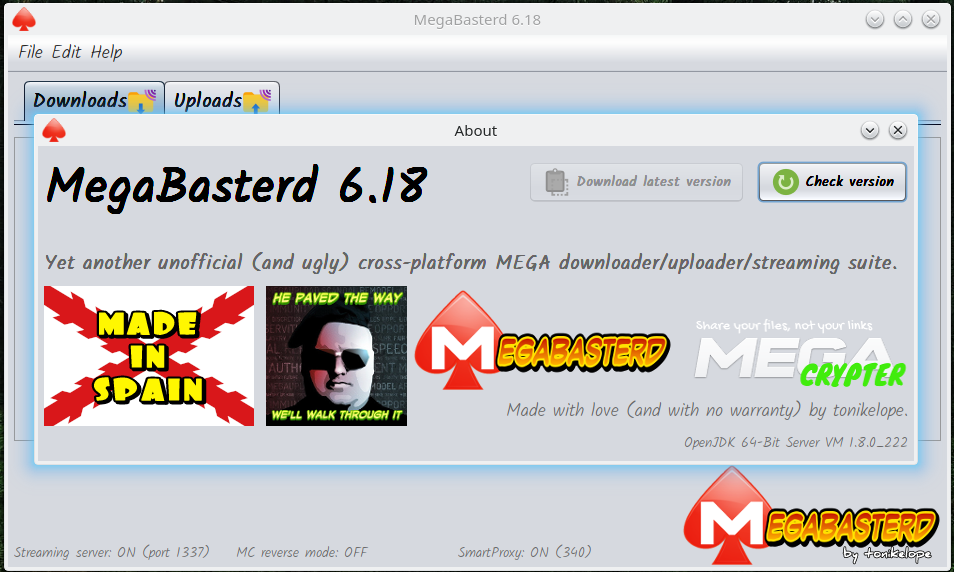
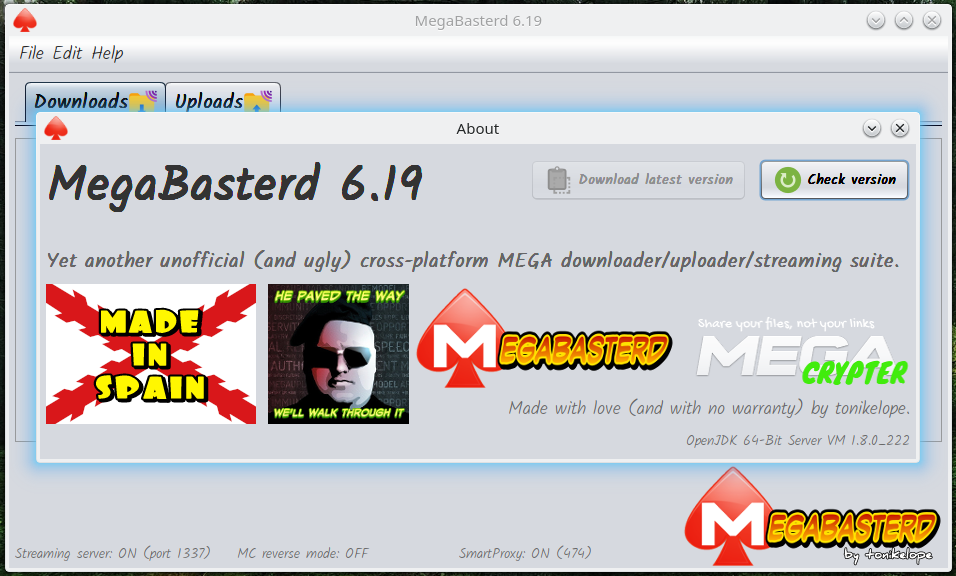
6.19
-GUI optimizations

diff --git a/src/main/java/com/tonikelope/megabasterd/DownloadManager.java b/src/main/java/com/tonikelope/megabasterd/DownloadManager.java
@@ -28,11 +28,13 @@ public final class DownloadManager extends TransferenceManager {
 
         for (final Transference d : downloads) {
 
-            swingInvoke(
+            swingInvokeAndWait(
                     new Runnable() {
                 @Override
                 public void run() {
                     getScroll_panel().remove(((Download) d).getView());
+                    ((Download) d).getView().revalidate();
+                    ((Download) d).getView().repaint();
                 }
             });
 
@@ -61,11 +63,13 @@ public final class DownloadManager extends TransferenceManager {
 
     @Override
     public void provision(final Transference download) {
-        swingInvoke(
+        swingInvokeAndWait(
                 new Runnable() {
             @Override
             public void run() {
                 getScroll_panel().add(((Download) download).getView());
+                ((Download) download).getView().revalidate();
+                ((Download) download).getView().repaint();
             }
         });
 
@@ -125,12 +129,16 @@ public final class DownloadManager extends TransferenceManager {
 
                                 getScroll_panel().remove((Component) down.getView());
                                 getScroll_panel().add((Component) down.getView());
+                                ((Download) down).getView().revalidate();
+                                ((Download) down).getView().repaint();
                             }
 
                             for (final Transference down : getTransference_finished_queue()) {
 
                                 getScroll_panel().remove((Component) down.getView());
                                 getScroll_panel().add((Component) down.getView());
+                                ((Download) down).getView().revalidate();
+                                ((Download) down).getView().repaint();
                             }
 
                         }

diff --git a/src/main/java/com/tonikelope/megabasterd/UploadManager.java b/src/main/java/com/tonikelope/megabasterd/UploadManager.java
@@ -41,6 +41,8 @@ public final class UploadManager extends TransferenceManager {
             @Override
             public void run() {
                 getScroll_panel().add(((Upload) upload).getView());
+                ((Upload) upload).getView().revalidate();
+                ((Upload) upload).getView().repaint();
             }
         });
 
@@ -67,12 +69,16 @@ public final class UploadManager extends TransferenceManager {
 
                                 getScroll_panel().remove((Component) up.getView());
                                 getScroll_panel().add((Component) up.getView());
+                                ((Upload) up).getView().revalidate();
+                                ((Upload) up).getView().repaint();
                             }
 
                             for (Transference up : getTransference_finished_queue()) {
 
                                 getScroll_panel().remove((Component) up.getView());
                                 getScroll_panel().add((Component) up.getView());
+                                ((Upload) up).getView().revalidate();
+                                ((Upload) up).getView().repaint();
                             }
                         }
                     });
@@ -101,6 +107,8 @@ public final class UploadManager extends TransferenceManager {
                 @Override
                 public void run() {
                     getScroll_panel().remove(((Upload) u).getView());
+                    ((Upload) u).getView().revalidate();
+                    ((Upload) u).getView().repaint();
                 }
             });
 

diff --git a/src/main/java/com/tonikelope/megabasterd/LabelTranslatorSingleton.java b/src/main/java/com/tonikelope/megabasterd/LabelTranslatorSingleton.java
@@ -40,6 +40,7 @@ public final class LabelTranslatorSingleton {
         _addTranslation("You've tried to login too many times. Wait an hour.", "Has intentado hacer login demasiadas veces. Prueba dentro de una hora.");
         _addTranslation("MEGA LINK ERROR!", "¡ENLACE DE MEGA ERRÓNEO!");
         _addTranslation("Please enter 2FA PIN CODE", "Por favor, introduce el CÓDIGO 2FA");
+        _addTranslation("Enable log file", "Activar fichero de log");
         _addTranslation("Font:", "Fuente:");
         _addTranslation("Loading...", "Cargando...");
         _addTranslation("DEFAULT", "POR DEFECTO");

diff --git a/src/main/java/com/tonikelope/megabasterd/TransferenceManager.java b/src/main/java/com/tonikelope/megabasterd/TransferenceManager.java
@@ -297,11 +297,13 @@ abstract public class TransferenceManager implements Runnable, SecureSingleThrea
 
         _transference_running_list.add(transference);
 
-        swingInvoke(
+        swingInvokeAndWait(
                 new Runnable() {
             @Override
             public void run() {
                 getScroll_panel().add((Component) transference.getView(), 0);
+                _main_panel.getView().revalidate();
+                _main_panel.getView().repaint();
             }
         });
 

diff --git a/src/main/java/com/tonikelope/megabasterd/FileGrabberDialog.java b/src/main/java/com/tonikelope/megabasterd/FileGrabberDialog.java
@@ -243,7 +243,7 @@ public final class FileGrabberDialog extends javax.swing.JDialog {
 
         upload_log_checkbox.setFont(new java.awt.Font("Dialog", 1, 18)); // NOI18N
         upload_log_checkbox.setSelected(true);
-        upload_log_checkbox.setText("Enable upload log file");
+        upload_log_checkbox.setText("Enable log file");
         upload_log_checkbox.setDoubleBuffered(true);
         upload_log_checkbox.setEnabled(false);
 

diff --git a/src/main/java/com/tonikelope/megabasterd/MainPanel.java b/src/main/java/com/tonikelope/megabasterd/MainPanel.java
@@ -50,7 +50,7 @@ import javax.swing.UIManager;
  */
 public final class MainPanel {
 
-    public static final String VERSION = "6.18";
+    public static final String VERSION = "6.19";
     public static final int THROTTLE_SLICE_SIZE = 16 * 1024;
     public static final int DEFAULT_BYTE_BUFFER_SIZE = 16 * 1024;
     public static final int STREAMER_PORT = 1337;
